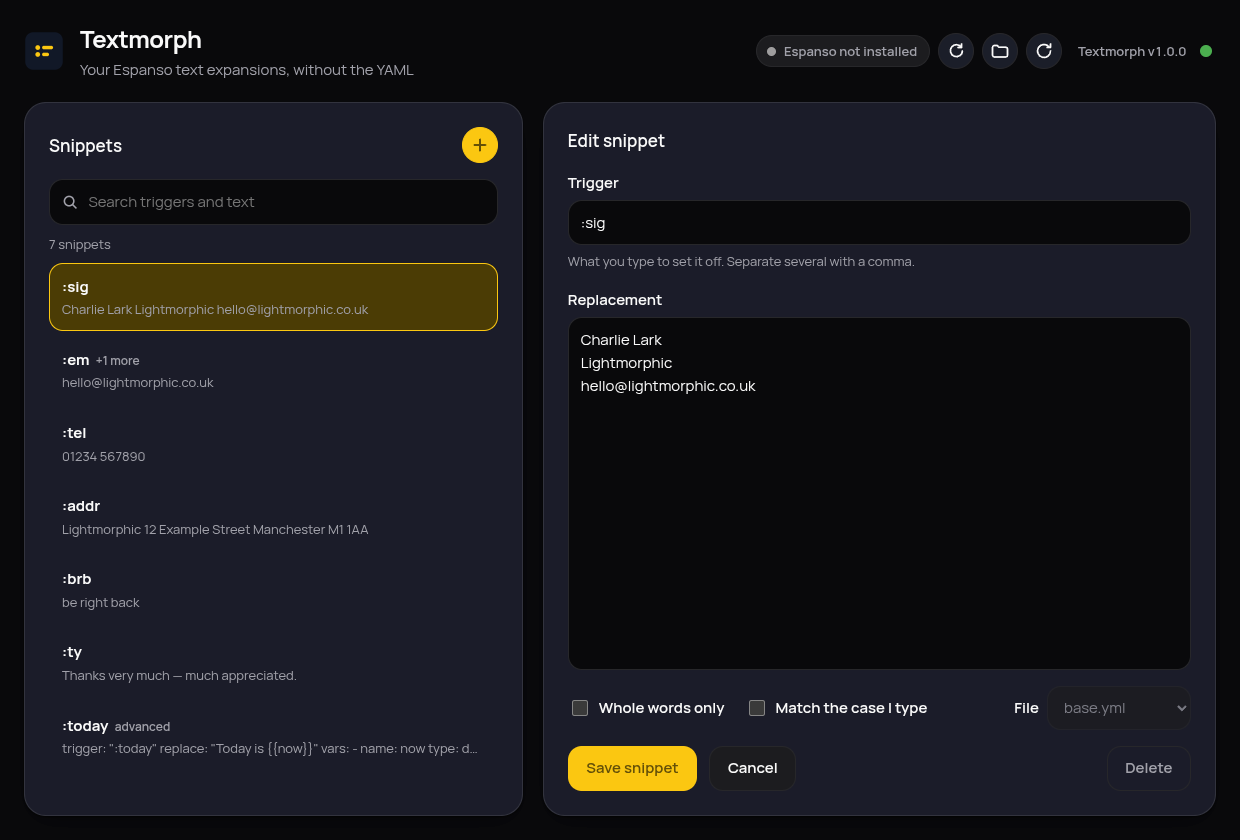
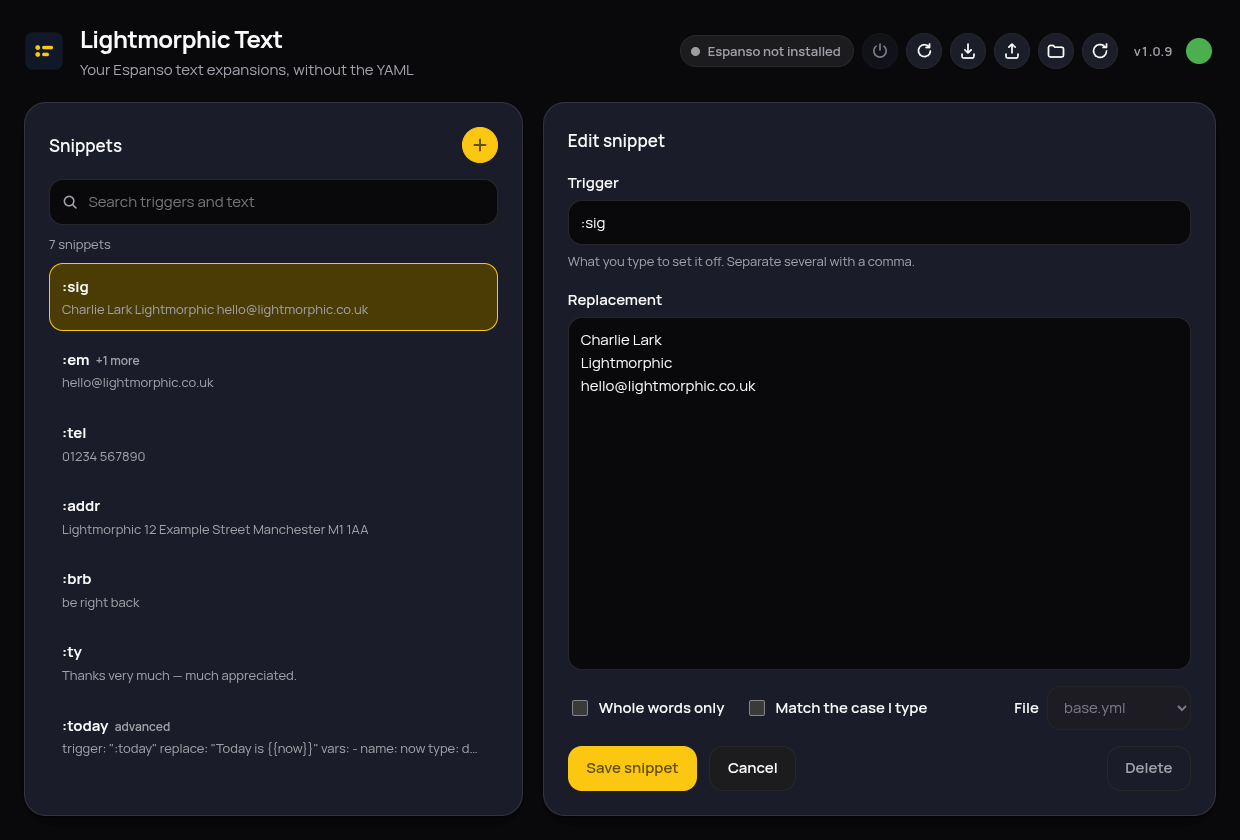
A pictured guide page, and fresh screenshots throughout
site/help.html walks the whole app — first run, editing, search,
advanced snippets, every header button with its icon, the five update-dot
states drawn for real, tray, backups and file locations — as alternating
image-and-text rows rather than prose. Screenshots regenerated from the
running 1.0.9 app, replacing the pre-rename set everywhere they are used.
The header now wraps on phone widths and the install code block no longer
forces a sideways scroll.

Changed region(s): [[0.5516, 0.031, 0.9194, 0.0929], [0.0613, 0.031, 0.2452, 0.0619], [0.95, 0.031, 0.9806, 0.0929]]

diff --git a/site/help.html b/site/help.html
@@ -1,0 +1,249 @@
+<!DOCTYPE html>
+<html lang="en">
+<head>
+  <meta charset="UTF-8">
+  <meta name="viewport" content="width=device-width, initial-scale=1.0">
+  <title>Guide — Lightmorphic Text</title>
+  <meta name="description" content="How to use Lightmorphic Text: the guided first run, adding and finding snippets, backups, the update dot and the tray — with pictures.">
+  <link rel="icon" type="image/svg+xml" href="icon.svg">
+  <link rel="stylesheet" href="style.css">
+  <script>
+    (function () {
+      var t = localStorage.getItem('theme');
+      if (t === 'light' || t === 'dark') document.documentElement.dataset.theme = t;
+    })();
+  </script>
+</head>
+<body>
+
+<header>
+  <div class="wrap">
+    <a class="wordmark" href="index.html">
+      <img src="icon.svg" alt="" width="32" height="32">
+      Lightmorphic Text
+    </a>
+    <nav>
+      <a href="index.html#features">Features</a>
+      <a href="index.html#install">Install</a>
+      <a href="help.html" aria-current="page">Guide</a>
+      <button id="theme-toggle" type="button" aria-label="Switch between light and dark">
+        <svg class="sun" viewBox="0 0 24 24" fill="none" stroke="currentColor" stroke-width="2" stroke-linecap="round" aria-hidden="true">
+          <circle cx="12" cy="12" r="4"/>
+          <path d="M12 2v2m0 16v2M4.9 4.9l1.4 1.4m11.4 11.4 1.4 1.4M2 12h2m16 0h2M4.9 19.1l1.4-1.4M17.7 6.3l1.4-1.4"/>
+        </svg>
+        <svg class="moon" viewBox="0 0 24 24" fill="none" stroke="currentColor" stroke-width="2" stroke-linecap="round" stroke-linejoin="round" aria-hidden="true">
+          <path d="M21 12.8A9 9 0 1 1 11.2 3a7 7 0 0 0 9.8 9.8Z"/>
+        </svg>
+      </button>
+    </nav>
+  </div>
+</header>
+
+<main>
+
+  <div class="hero wrap">
+    <h1>How to use Lightmorphic Text</h1>
+    <p class="sub">
+      Everything the app does, shown rather than described. Five minutes
+      here and you know the whole thing.
+    </p>
+  </div>
+
+  <section class="wrap">
+
+    <div class="guide-row">
+      <div class="guide-text">
+        <h2>The first run sets everything up</h2>
+        <p>
+          The first time you open the app, it checks what your computer
+          already has and does the rest itself: it fetches Espanso — the
+          engine that does the actual text expanding — and, on Wayland
+          desktops, asks once for permission to read the keyboard, using
+          your desktop's own password prompt. Nothing is installed
+          system-wide, so it works the same on immutable systems like
+          openSUSE Aeon or Fedora Silverblue.
+        </p>
+      </div>
+      <div class="guide-shot">
+        <img src="shots/setup.png" width="1240" height="840"
+             alt="The guided first run: numbered steps, plain-English explanation, one button">
+      </div>
+    </div>
+
+    <div class="guide-row flip">
+      <div class="guide-text">
+        <h2>Adding a snippet is a form, not a file</h2>
+        <p>
+          Press the yellow plus, type the trigger (what you'll type, like
+          <strong>:sig</strong>) and the replacement (what appears instead),
+          and save. The snippet works the moment it's saved — Espanso is
+          reloaded for you. "Whole words only" stops a trigger firing in the
+          middle of longer words, and "Match the case I type" makes
+          <strong>:brb</strong> and <strong>:BRB</strong> behave differently.
+        </p>
+      </div>
+      <div class="guide-shot">
+        <img src="shots/main.png" width="1240" height="840"
+             alt="The main window: the snippet list on the left, the editing form on the right">
+      </div>
+    </div>
+
+    <div class="guide-row">
+      <div class="guide-text">
+        <h2>Search finds anything, as you type</h2>
+        <p>
+          The search box matches triggers and replacement text at the same
+          time, highlighting what it found. A half-remembered snippet — "the
+          one with <em>thanks</em> in it somewhere" — is a few keystrokes away.
+        </p>
+      </div>
+      <div class="guide-shot">
+        <img src="shots/search.png" width="1240" height="840"
+             alt="Searching: the list narrows and matching text is highlighted">
+      </div>
+    </div>
+
+    <div class="guide-row flip">
+      <div class="guide-text">
+        <h2>Clever snippets are shown, never touched</h2>
+        <p>
+          Espanso can do advanced things — dates, forms, scripts. Snippets
+          like that are listed and shown exactly as they appear in your
+          file, marked <strong>advanced</strong> and read-only. The app never
+          rewrites what it can't fully represent, so nothing you built by
+          hand can be quietly broken.
+        </p>
+      </div>
+      <div class="guide-shot">
+        <img src="shots/advanced.png" width="1240" height="840"
+             alt="An advanced snippet shown read-only, exactly as it appears in the file">
+      </div>
+    </div>
+
+  </section>
+
+  <section class="wrap">
+    <h2>The buttons along the top</h2>
+    <div class="panel">
+      <div class="button-guide">
+        <div>
+          <span class="icon"><svg viewBox="0 0 20 20" aria-hidden="true"><path d="M10 3v6M6 5.2a6.2 6.2 0 1 0 8 0" fill="none" stroke="currentColor" stroke-width="1.7" stroke-linecap="round" stroke-linejoin="round"/></svg></span>
+          <p><strong>Turn Espanso off or on.</strong> Off means off — text expansion stops, and stays stopped through restarts, until you press it again.</p>
+        </div>
+        <div>
+          <span class="icon"><svg viewBox="0 0 20 20" aria-hidden="true"><path d="M15.5 6.5A6 6 0 1 0 16.4 10M15.5 6.5V3m0 3.5H12" fill="none" stroke="currentColor" stroke-width="1.7" stroke-linecap="round" stroke-linejoin="round"/></svg></span>
+          <p><strong>Restart Espanso.</strong> A fresh start for the engine, for the rare day it needs one.</p>
+        </div>
+        <div>
+          <span class="icon"><svg viewBox="0 0 20 20" aria-hidden="true"><path d="M10 12V3m0 9 3.2-3.2M10 12 6.8 8.8M4 13v2.3A1.7 1.7 0 0 0 5.7 17h8.6a1.7 1.7 0 0 0 1.7-1.7V13" fill="none" stroke="currentColor" stroke-width="1.7" stroke-linecap="round" stroke-linejoin="round"/></svg></span>
+          <p><strong>Export.</strong> Saves every snippet — comments, advanced ones, installed packages — into a single backup file, wherever you choose.</p>
+        </div>
+        <div>
+          <span class="icon"><svg viewBox="0 0 20 20" aria-hidden="true"><path d="M10 3v9m0 0 3.2-3.2M10 12 6.8 8.8" transform="rotate(180 10 7.5)" fill="none" stroke="currentColor" stroke-width="1.7" stroke-linecap="round" stroke-linejoin="round"/><path d="M4 13v2.3A1.7 1.7 0 0 0 5.7 17h8.6a1.7 1.7 0 0 0 1.7-1.7V13" fill="none" stroke="currentColor" stroke-width="1.7" stroke-linecap="round" stroke-linejoin="round"/></svg></span>
+          <p><strong>Import.</strong> Brings snippets in from a backup, or from a snippet file someone shared. Your existing files are never overwritten.</p>
+        </div>
+        <div>
+          <span class="icon"><svg viewBox="0 0 20 20" aria-hidden="true"><path d="M2.5 6.2A1.7 1.7 0 0 1 4.2 4.5h3.1l1.4 1.7h7.1a1.7 1.7 0 0 1 1.7 1.7v6.4a1.7 1.7 0 0 1-1.7 1.7H4.2a1.7 1.7 0 0 1-1.7-1.7z" fill="none" stroke="currentColor" stroke-width="1.7" stroke-linejoin="round"/></svg></span>
+          <p><strong>Open the config folder.</strong> For a look at the files themselves — they're yours, and other editors are welcome.</p>
+        </div>
+        <div>
+          <span class="icon"><svg viewBox="0 0 20 20" aria-hidden="true"><path d="M16.5 10a6.5 6.5 0 1 1-1.9-4.6M16.5 3v3.4h-3.4" fill="none" stroke="currentColor" stroke-width="1.7" stroke-linecap="round" stroke-linejoin="round"/></svg></span>
+          <p><strong>Reload from disk.</strong> If something else edited your files, this refreshes the list — though the app usually notices by itself.</p>
+        </div>
+      </div>
+    </div>
+  </section>
+
+  <section class="wrap">
+    <h2>The little dot knows about updates</h2>
+    <div class="panel">
+      <div class="dot-legend">
+        <div class="state">
+          <span class="dot green"></span>
+          <strong>Green</strong>
+          <span>Up to date. Click it to check again right now.</span>
+        </div>
+        <div class="state">
+          <span class="dot yellow"></span>
+          <strong>Yellow</strong>
+          <span>A new version exists. Click to download it.</span>
+        </div>
+        <div class="state">
+          <span class="dot ring"></span>
+          <strong>Ring</strong>
+          <span>Downloading — the line traces the edge as it goes.</span>
+        </div>
+        <div class="state">
+          <span class="dot blue"></span>
+          <strong>Blue</strong>
+          <span>Ready. Click to restart into the new version.</span>
+        </div>
+        <div class="state">
+          <span class="dot red"></span>
+          <strong>Red</strong>
+          <span>Can't reach GitHub. Click to try again.</span>
+        </div>
+      </div>
+    </div>
+  </section>
+
+  <section class="wrap">
+    <div class="features">
+      <div class="panel">
+        <h3>It lives in the tray</h3>
+        <p>
+          Closing the window doesn't quit: the app tucks itself into the
+          tray and keeps checking for updates quietly. Click the tray icon
+          to bring it back, or use its menu to quit properly. (On GNOME the
+          tray needs the AppIndicator extension; on desktops without any
+          tray, closing simply quits.)
+        </p>
+      </div>
+      <div class="panel">
+        <h3>Every save keeps a backup</h3>
+        <p>
+          Before any file is changed, a dated copy is kept under
+          <strong>~/.local/share/lightmorphic-text/backups</strong>. Your
+          comments, spacing and ordering are preserved on every save — only
+          the values you actually changed are rewritten.
+        </p>
+      </div>
+      <div class="panel">
+        <h3>Your files, standard Espanso</h3>
+        <p>
+          Everything is plain Espanso configuration in
+          <strong>~/.config/espanso</strong>. Stop using the app tomorrow
+          and your snippets keep working; point any other Espanso tool at
+          them and it all just fits.
+        </p>
+      </div>
+    </div>
+  </section>
+
+</main>
+
+<footer>
+  <div class="wrap">
+    <span>Lightmorphic Text is free, open source software, licensed
+      <a href="https://www.gnu.org/licenses/gpl-3.0.html">GPL-3.0-or-later</a>.</span>
+    <span class="spacer"></span>
+    <a href="https://github.com/lightmorphic">Other open source Lightmorphic apps</a>
+    <a href="https://github.com/lightmorphic/text">GitHub</a>
+    <a href="https://github.com/lightmorphic/text/issues">Report a problem</a>
+    <a href="https://lightmorphic.co.uk">Lightmorphic</a>
+  </div>
+</footer>
+
+<script>
+  document.getElementById('theme-toggle').addEventListener('click', function () {
+    var root = document.documentElement;
+    var current = root.dataset.theme
+      || (matchMedia('(prefers-color-scheme: dark)').matches ? 'dark' : 'light');
+    var next = current === 'dark' ? 'light' : 'dark';
+    root.dataset.theme = next;
+    localStorage.setItem('theme', next);
+  });
+</script>
+
+</body>
+</html>

diff --git a/site/style.css b/site/style.css
@@ -328,3 +328,80 @@ footer .spacer { margin-left: auto; }
   :root:not([data-theme="light"]) .shot .light-shot { display: none; }
   :root:not([data-theme="light"]) .shot .dark-shot { display: block; }
 }
+
+/* ------------------------------------------------------------------- guide */
+
+.guide-row {
+  display: grid;
+  grid-template-columns: 5fr 4fr;
+  gap: 2rem;
+  align-items: center;
+  margin-bottom: 2rem;
+}
+.guide-row.flip { grid-template-columns: 4fr 5fr; }
+.guide-row.flip .guide-text { order: 2; }
+.guide-row.flip .guide-shot { order: 1; }
+@media (max-width: 46rem) {
+  .guide-row, .guide-row.flip { grid-template-columns: 1fr; }
+  .guide-row.flip .guide-text { order: 1; }
+  .guide-row.flip .guide-shot { order: 2; }
+}
+.guide-row h2 { margin-top: 0; }
+.guide-row p { color: var(--muted-fg); max-width: 55ch; }
+.guide-shot img {
+  width: 100%; height: auto; display: block;
+  border: 1px solid var(--panel-border);
+  border-radius: var(--panel-radius);
+  box-shadow: var(--shadow-panel);
+}
+
+/* The five states of the update dot, drawn for real rather than described. */
+.dot-legend {
+  display: grid;
+  grid-template-columns: repeat(auto-fit, minmax(150px, 1fr));
+  gap: 1.25rem;
+  text-align: center;
+}
+.dot-legend .state { display: grid; justify-items: center; gap: 0.5rem; }
+.dot-legend .dot {
+  width: 34px; height: 34px; border-radius: 50%;
+}
+.dot-legend .dot.green { background: #4bae4f; }
+.dot-legend .dot.yellow { background: #ffc006; }
+.dot-legend .dot.blue { background: #2295f1; }
+.dot-legend .dot.red { background: #f34236; }
+.dot-legend .dot.ring {
+  background: none;
+  border: 3px solid var(--border);
+  border-top-color: var(--fg);
+  transform: rotate(45deg);
+}
+.dot-legend .state strong { font-size: 0.9375rem; }
+.dot-legend .state span { font-size: 0.8125rem; color: var(--muted-fg); max-width: 22ch; }
+
+/* The header buttons, listed with their own icons. */
+.button-guide { display: grid; gap: 0.9rem; margin: 0; }
+.button-guide div { display: flex; align-items: center; gap: 0.9rem; }
+.button-guide .icon {
+  flex: none;
+  width: 2.25rem; height: 2.25rem;
+  border: 1px solid var(--border);
+  border-radius: 50%;
+  display: grid; place-items: center;
+  color: var(--fg);
+}
+.button-guide .icon svg { width: 1.1rem; height: 1.1rem; }
+.button-guide p { margin: 0; font-size: 0.9375rem; color: var(--muted-fg); }
+.button-guide strong { color: var(--fg); }
+
+/* Three nav links plus the theme toggle outgrow a phone width; let the
+   header wrap onto two lines instead of forcing a sideways scroll. */
+@media (max-width: 34rem) {
+  header .wrap { flex-wrap: wrap; }
+  header nav { margin-left: 0; width: 100%; gap: 1rem; }
+  header nav .theme-spacer, #theme-toggle { margin-left: auto; }
+}
+
+/* Grid items refuse to shrink below their content by default, which lets
+   the install command's code block push the page sideways on a phone. */
+.install ol > li { min-width: 0; }

diff --git a/site/index.html b/site/index.html
@@ -27,6 +27,7 @@
     <nav>
       <a href="#features">Features</a>
       <a href="#install">Install</a>
+      <a href="help.html">Guide</a>
       <button id="theme-toggle" type="button" aria-label="Switch between light and dark">
         <svg class="sun" viewBox="0 0 24 24" fill="none" stroke="currentColor" stroke-width="2" stroke-linecap="round" aria-hidden="true">
           <circle cx="12" cy="12" r="4"/>
